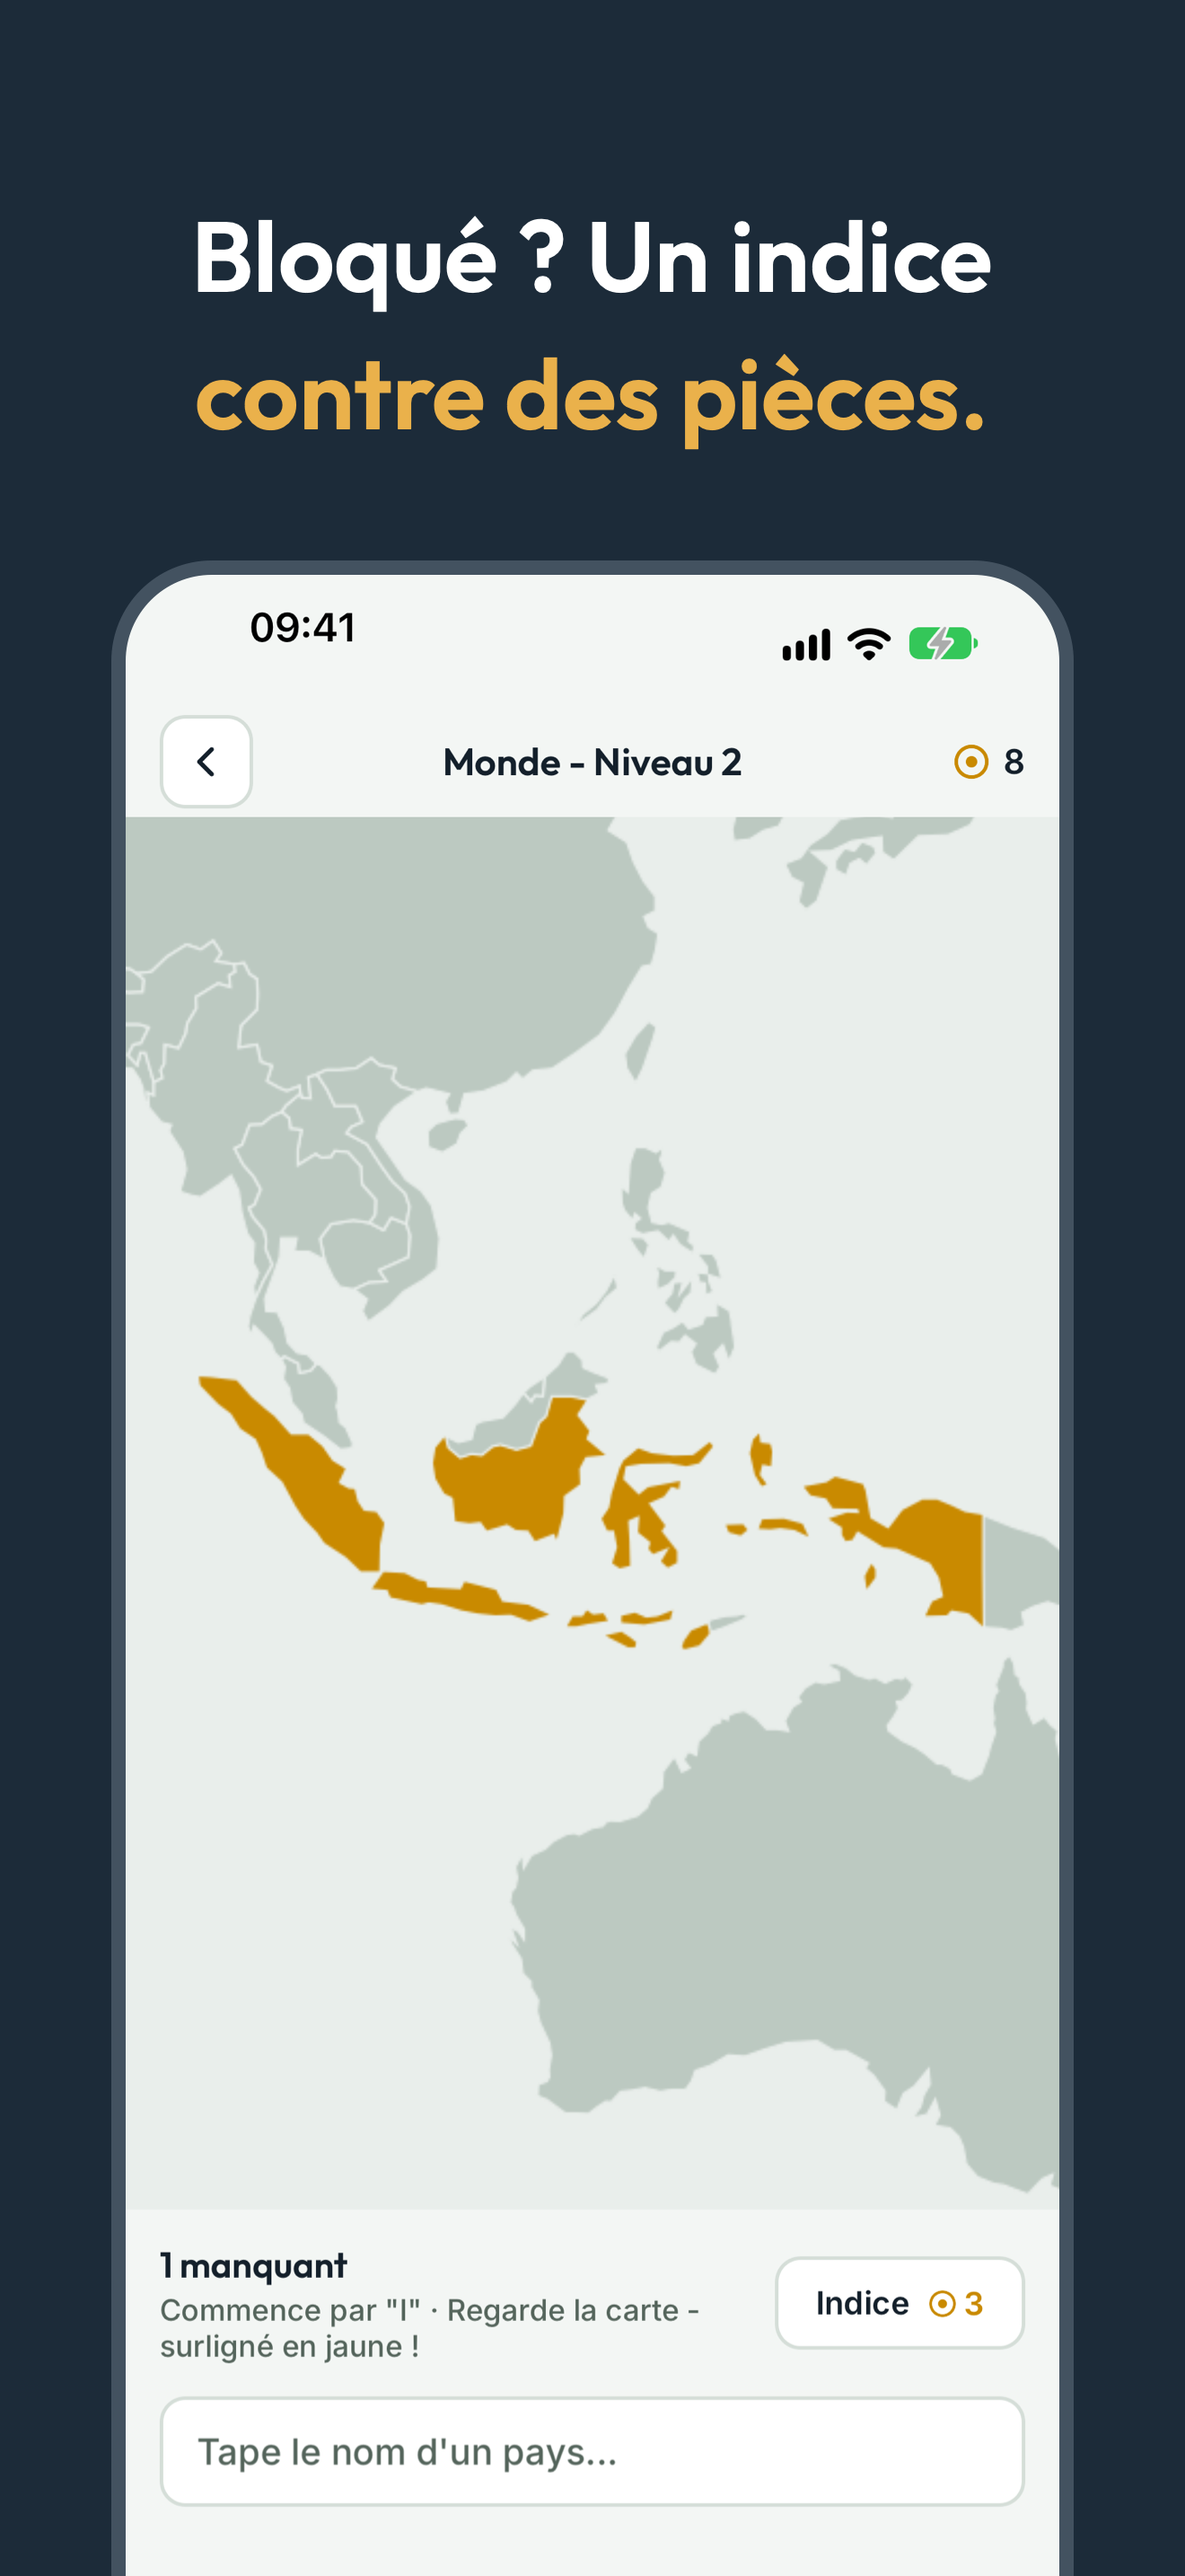
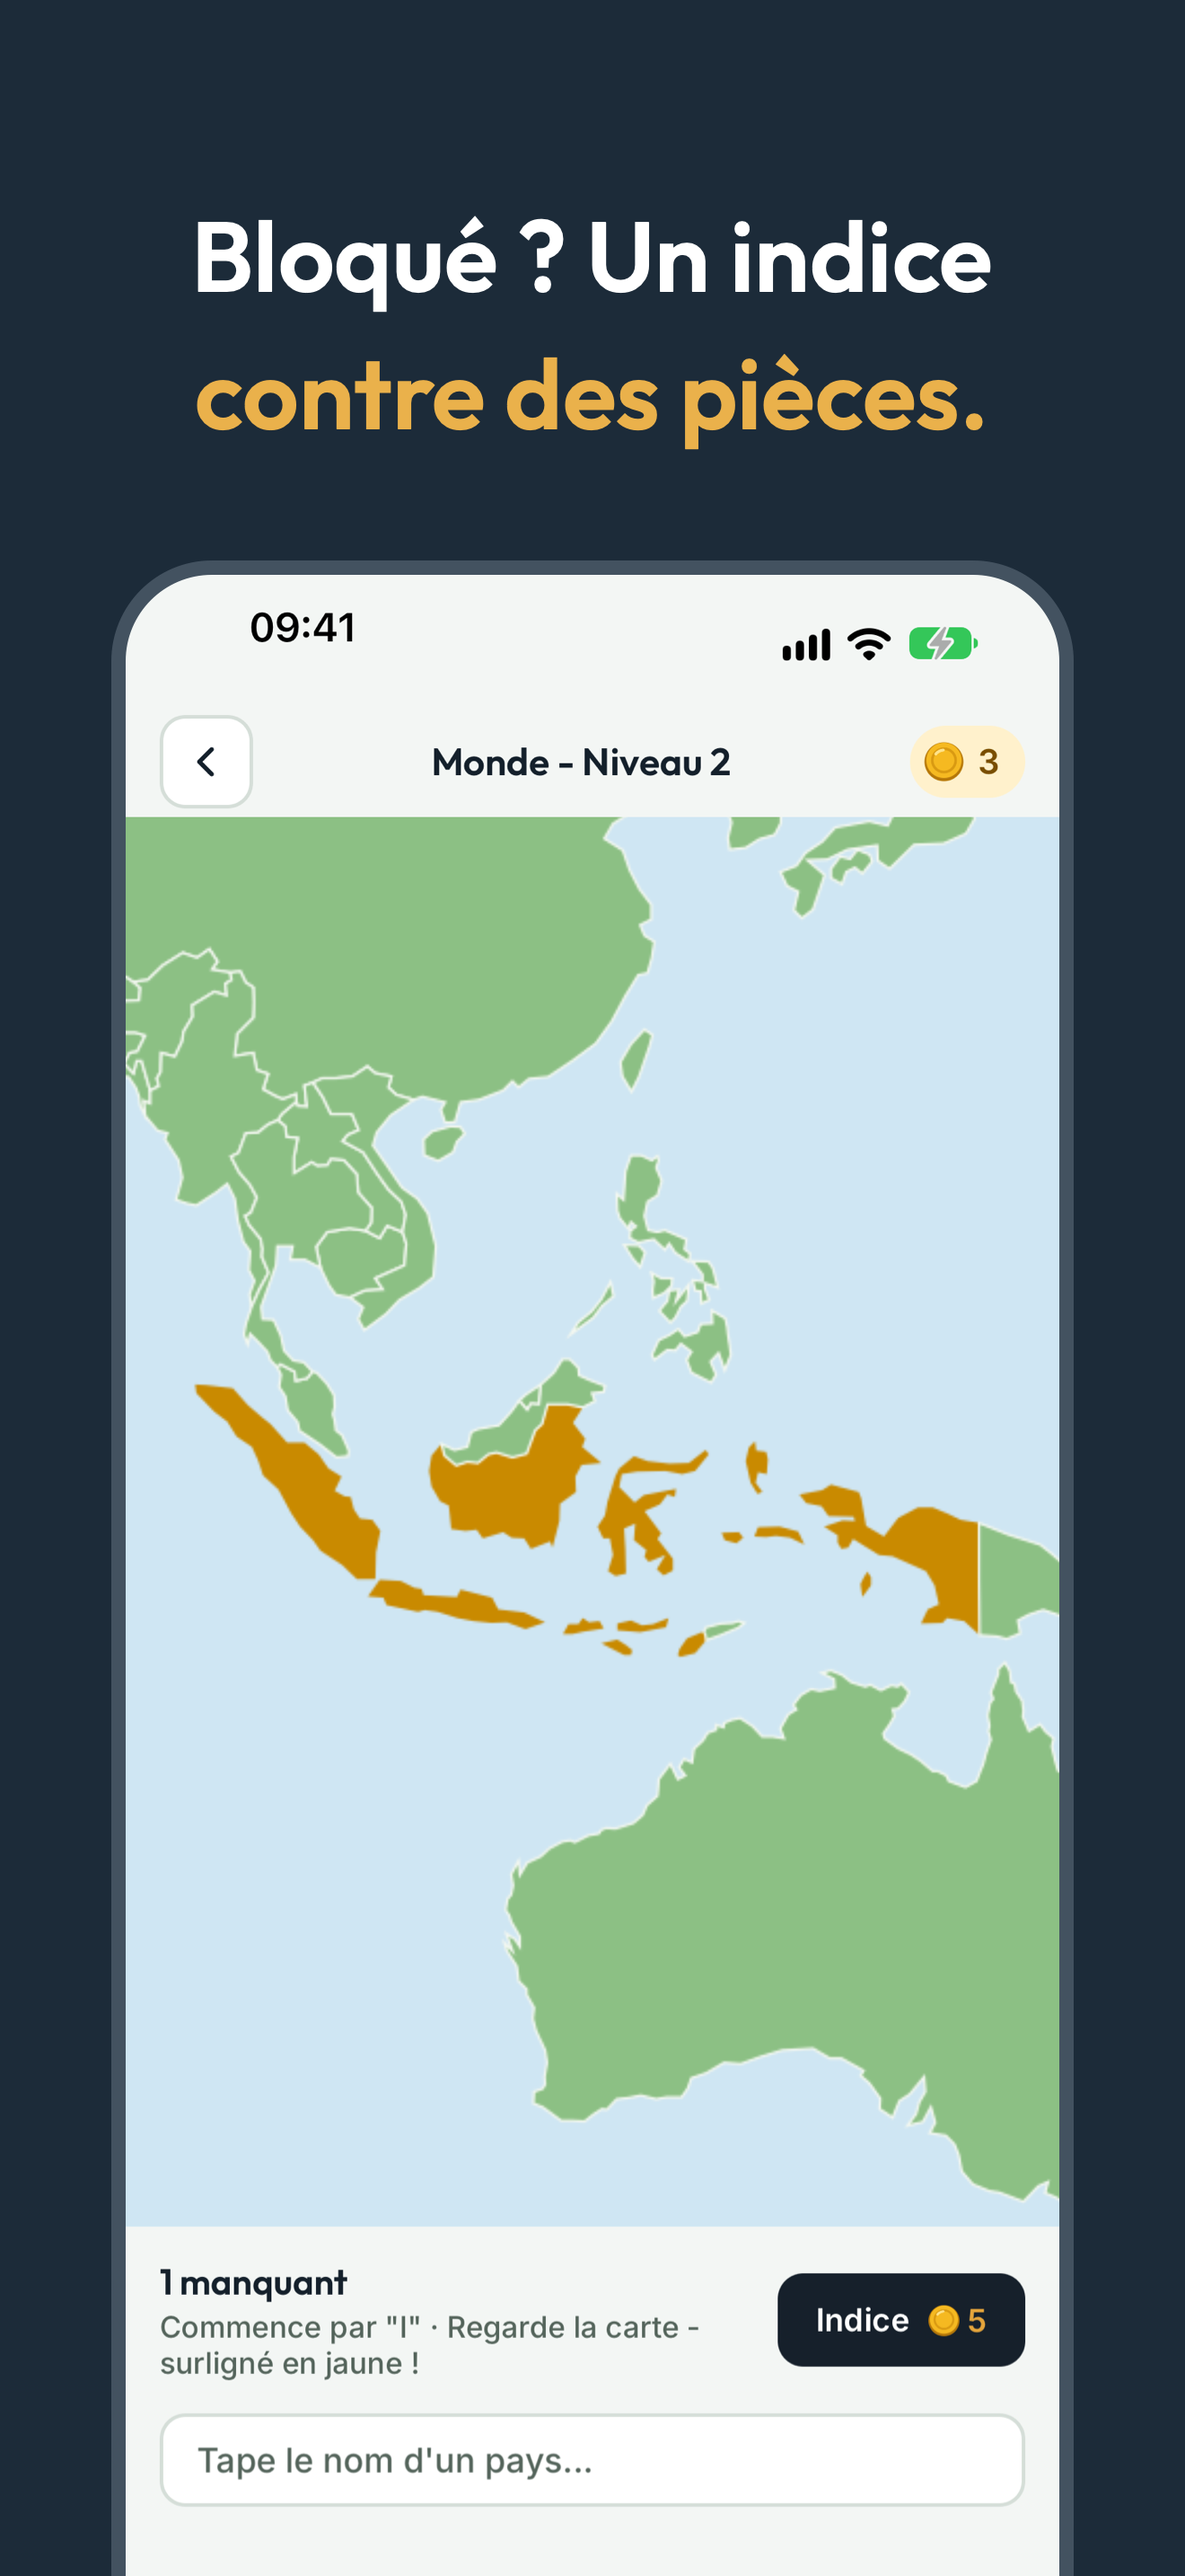
chore: App Store visuals for the new design

diff --git a/apps/wordclimb-expo/store-assets/fiche-app-store.md b/apps/wordclimb-expo/store-assets/fiche-app-store.md
@@ -51,9 +51,9 @@ Première version de WordClimb.
 À envoyer, dans cet ordre, depuis `store-assets/ios/6.9/fr/fiche/` :
 
 1. `01-change-une-lettre.png` — la règle, sur une partie en cours
-2. `02-trois-etoiles.png` — la récompense, sur un niveau terminé
+2. `02-trois-etoiles.png` — l'écran de victoire : étoiles et pièces gagnées
 3. `03-sans-pub.png` — le volume et l'absence de pub, sur l'accueil
-4. `04-defi-du-jour.png` — le défi du jour et le rang, sur un défi terminé
+4. `04-defi-du-jour.png` — le défi du jour, avec les indices et leur prix en pièces
 
 Les captures sans habillage sont dans `store-assets/ios/6.9/fr/brut/`.
 

diff --git a/apps/earthunt-expo/store-assets/captures.md b/apps/earthunt-expo/store-assets/captures.md
@@ -1,0 +1,9 @@
+# EarthHunt — captures App Store (iPhone 6,9", 1320 × 2868)
+
+À envoyer dans la fiche App Store Connect « EarthHunt » (6759533592), dans cet ordre, depuis `ios/6.9/fr/fiche/` :
+
+1. `01-monde.png` — l'accueil : le monde entier et les continents
+2. `02-indices.png` — un indice payé en pièces, le pays surligné sur la carte
+3. `03-continents.png` — un niveau par continent, le pays manquant à retrouver
+
+Les captures sans habillage sont dans `ios/6.9/fr/brut/`.
